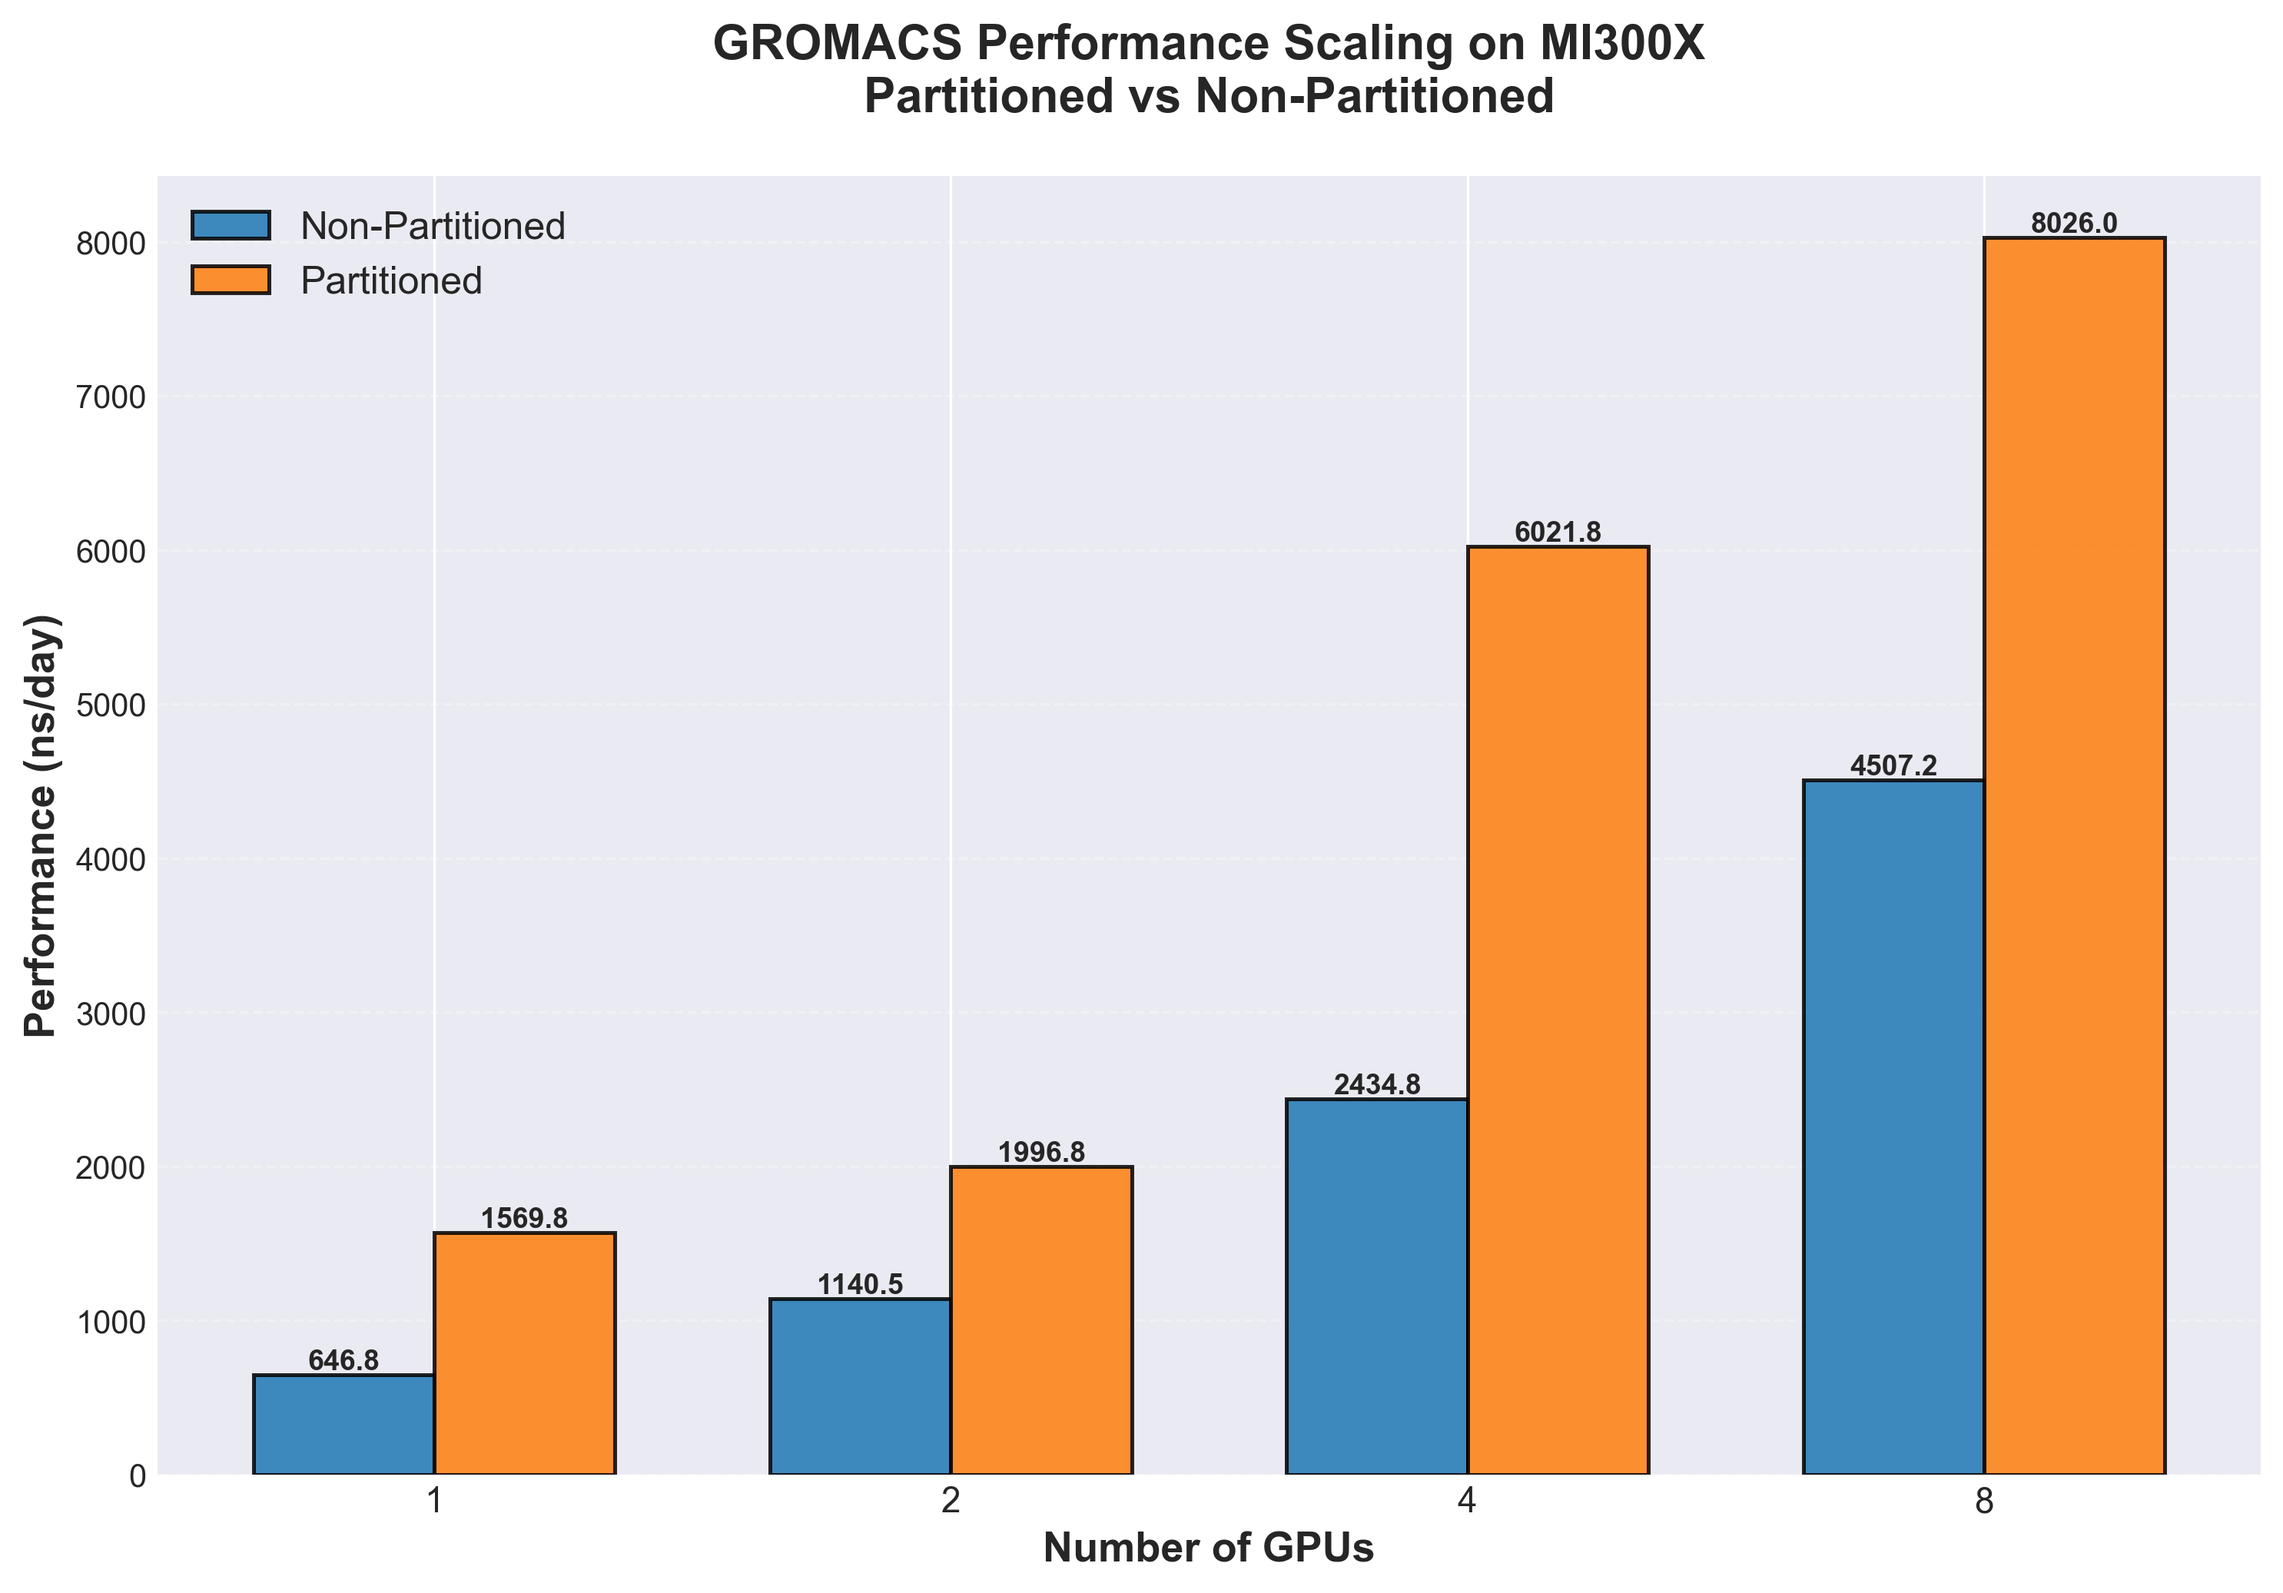
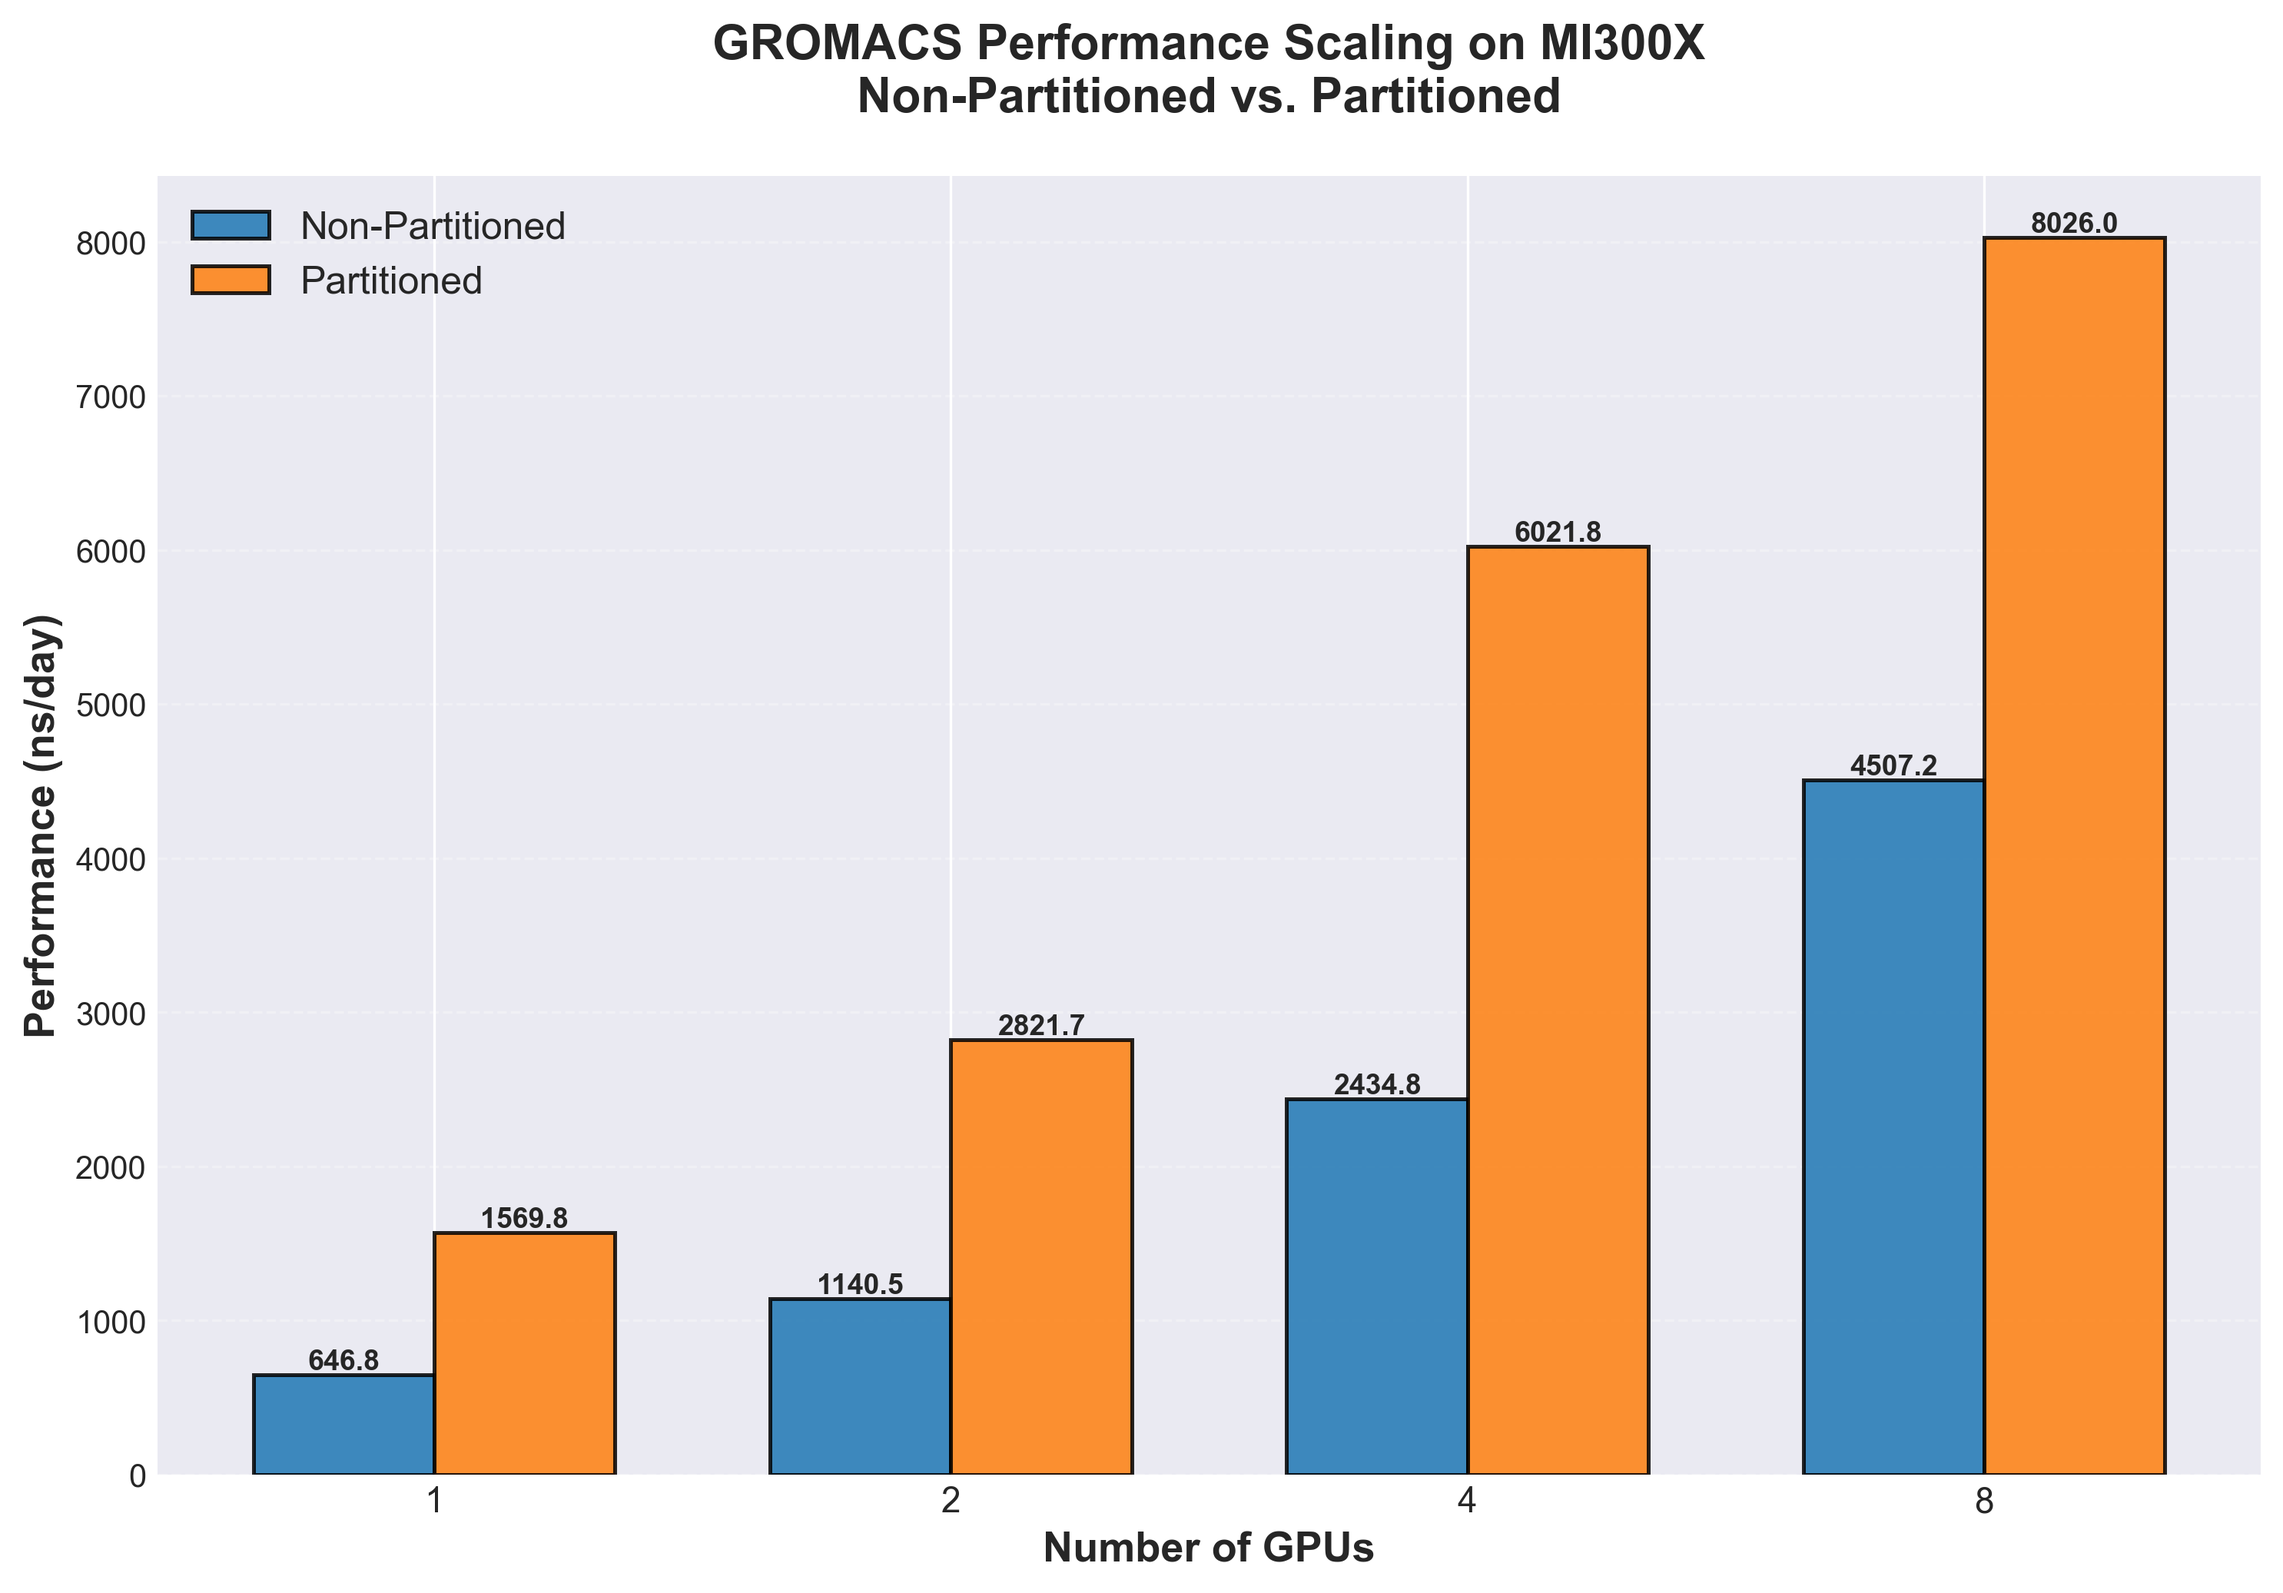
Adding reference to LUMI blog and updating benchmark number for partitioned MI300X 2GPU runs (#2011)

Changed region(s): [[0.3716, 0.0309, 0.6813, 0.0926], [0.4026, 0.6175, 0.4955, 0.741]]

diff --git a/blogs/artificial-intelligence/gpu-partitioning-workloads/README.md b/blogs/artificial-intelligence/gpu-partitioning-workloads/README.md
@@ -128,7 +128,7 @@ The above example starts a GROMACS run with 64 replicas using all 64 partitions 
 
 The goal of the benchmarks is to achieve as high a simulation speed (ns/day) as possible. To do this, parameter search was performed on `nstlist`, `multidir` (number of replicas per run, must be a multiple of the number of GPUs used) and `ntomp` (numbers of CPU threads per replica). The numbers presented below are hence the highest performing parameter configuration.
 
-The results demonstrate significant performance improvements when using GPU partitioning (CPX mode) compared to SPX (single partition) for GROMACS multidir workloads on the MI300X architecture. Partitioning delivers consistent speedups ranging from 1.75x to 2.47x across different GPU counts (see [Table 1](#table1)). These gains stem from the multidir workflow's natural parallelism: running multiple independent replicas on 8 partitions keeps all compute resources fully utilized, whereas the traditional SPX mode struggles to efficiently distribute work across such highly parallel tasks. The speedup is fairly consistent across different GPU configurations (see [Figure 1](#fig1)). However, the slightly lower speedups at 8 GPUs (1.78x) suggest that at this scale system resources are being saturated, specifically CPU resources due to the large amount of replicas being run in parallel. Even though the system used has 2x AMD EPYC 9654 96-Core Processors, running 128 replicas leaves only 1 **whole** physical CPU core per replica. Since all MI300X nodes are not equipped with equal CPU hardware, one takeaway is that it is important to balance GPU partitions and replica counts for the specific system configuration.
+The results demonstrate significant performance improvements when using GPU partitioning (CPX mode) compared to SPX (single partition) for GROMACS multidir workloads on the MI300X architecture. Partitioning delivers consistent speedups ranging from 1.78x to 2.47x across different GPU counts (see [Table 1](#table1)). These gains stem from the multidir workflow's natural parallelism: running multiple independent replicas on 8 partitions keeps all compute resources fully utilized, whereas the traditional SPX mode struggles to efficiently distribute work across such highly parallel tasks. The speedup is fairly consistent across different GPU configurations (see [Figure 1](#fig1)). However, the slightly lower speedups at 8 GPUs (1.78x) suggest that at this scale system resources are being saturated, specifically CPU resources due to the large amount of replicas being run in parallel. Even though the system used has 2x AMD EPYC 9654 96-Core Processors, running 128 replicas leaves only 1 **whole** physical CPU core per replica. Since all MI300X nodes are not equipped with equal CPU hardware, one takeaway is that it is important to balance GPU partitions and replica counts for the specific system configuration.
 
 For workflows involving ensemble simulations, free-energy calculations, or parameter sweeps, these results indicate that GPU partitioning can nearly double to triple effective throughput, dramatically reducing time-to-results for production MD campaigns.
 
@@ -137,8 +137,8 @@ For workflows involving ensemble simulations, free-energy calculations, or param
 | Compute mode      | Dataset     | Metric      | 1x MI300X | 2x MI300X | 4x MI300X | 8x MI300X |
 |-------------------|-------------|-------------|-----------|-----------|-----------|-----------|
 | SPX               | adh_dodec   | ns/day      | 647       | 1140      | 2435      | 4507      |
-| CPX (Partitioned) | adh_dodec   | ns/day      | 1570      | 1997      | 6022      | 8026      |
-| **Performance Difference** ||| **2.43x** | **1.75x** | **2.47x** | **1.78x** |
+| CPX (Partitioned) | adh_dodec   | ns/day      | 1570      | 2822      | 6022      | 8026      |
+| **Performance Difference** ||| **2.43x** | **2.48x** | **2.47x** | **1.78x** |
 
 <a id="fig1"></a>
 <img src="images/gromacs_mi300x_performance.png" alt="GROMACS MI300X performance" width="100%">
@@ -219,7 +219,7 @@ The baseline job takes approximately 34 minutes on the full GPU, so sequential e
 
 GPU compute partitioning on AMD MI300X accelerators delivers substantial performance improvements for workloads composed of multiple independent tasks.
 
-For GROMACS multidir workloads, partitioning (CPX mode) achieved **1.75x to 2.47x speedups** across different GPU configurations compared to traditional single-partition mode (SPX) on the ADH Dodec dataset. At scale, 8 partitioned MI300X GPUs delivered 8026 ns/day compared to 4507 ns/day without partitioning (see [Figure 1](#fig1)) - a **1.78x improvement**.
+For GROMACS multidir workloads, partitioning (CPX mode) achieved **1.78x to 2.48x speedups** across different GPU configurations compared to traditional single-partition mode (SPX) on the ADH Dodec dataset. At scale, 8 partitioned MI300X GPUs delivered 8026 ns/day compared to 4507 ns/day without partitioning (see [Figure 1](#fig1)) - a **1.78x improvement**.
 
 For REINVENT4 hyperparameter optimization and transfer learning workflows, partitioning enabled concurrent execution of multiple training jobs on a single GPU. With 8 concurrent jobs, partitioning achieved a **1.42x speedup** (191 minutes vs 272 minutes), reducing total workflow time by **30%**. This demonstrates that for high-throughput AI workflows involving model sweeps, ensemble training, or multi-seed validation, the benefits of concurrent execution outweigh the per-job overhead introduced by partitioning.
 
@@ -230,6 +230,7 @@ For readers interested in deeper technical details about partitioning modes and 
 - [Deep dive into the MI300 compute and memory partition modes](https://rocm.blogs.amd.com/software-tools-optimization/compute-memory-modes/README.html)
 - [GPU Partitioning Made Easy](https://rocm.blogs.amd.com/software-tools-optimization/gpu-operator-partitioning/README.html)
 - [Optimizing REINVENT4 workflows on AMD GPUs](https://rocm.blogs.amd.com/artificial-intelligence/running-reinvent4-amd/README.html)
+- [Installing AMD HIP-Enabled GROMACS on HPC Systems: A LUMI Supercomputer Case Study](https://rocm.blogs.amd.com/artificial-intelligence/gromacs-lumi-guide/README.html)
 
 ## Disclaimers
 
